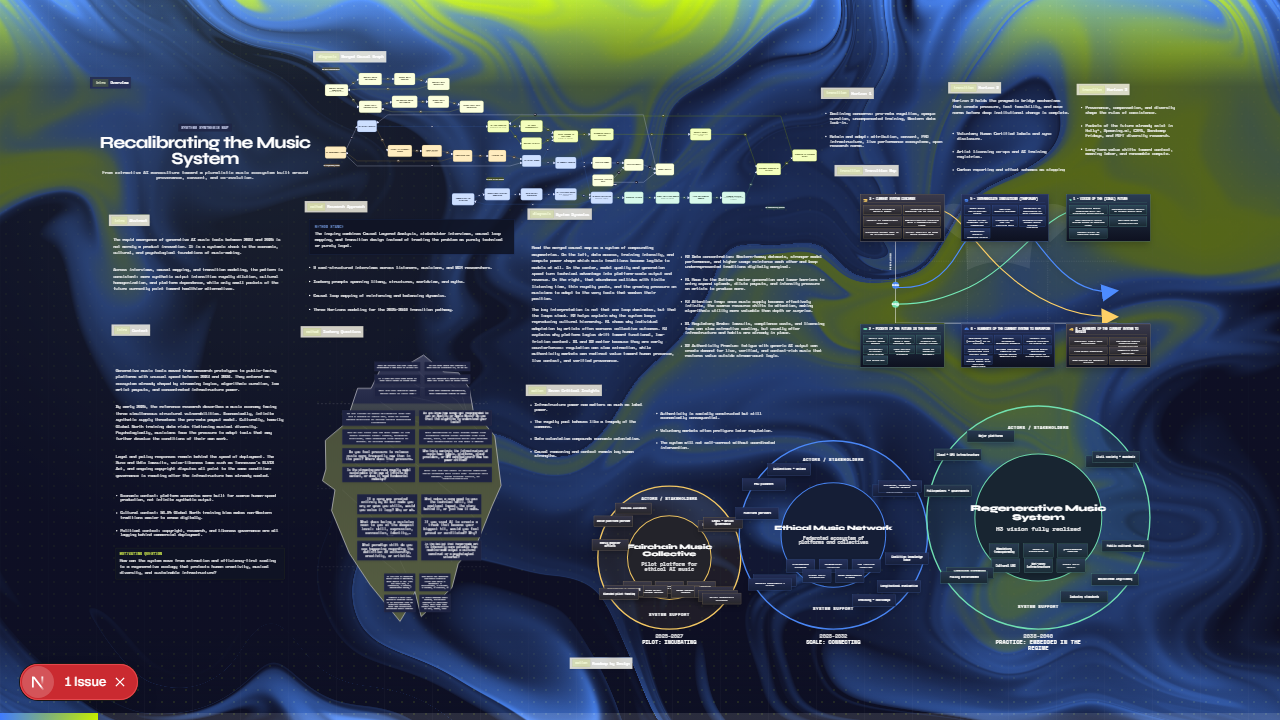
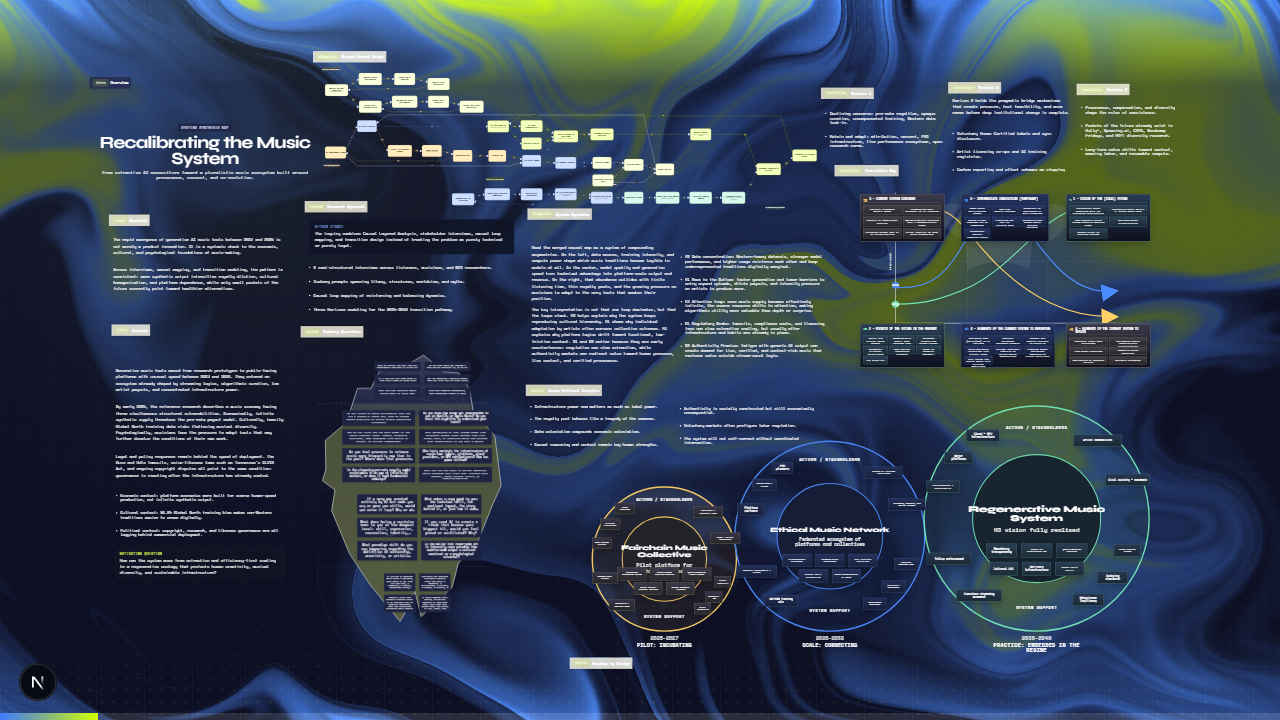
Implement angular gap management for roadmap rings layout and enhance presentation dimensions
- Added radiansToDegrees function for angle conversions.
- Introduced chipHalfAngleDegFromWidth and totalChipFootprintDeg functions to manage chip layout with equal angular gaps.
- Refactored layoutArcRowEven to utilize calculated chip centers and widths for improved spacing.
- Updated presentation YAML to adjust frame dimensions for better visual alignment.
- Enhanced unit tests to validate distinct angle placements and edge gaps for arc chips.

Changed region(s): [[0.4062, 0.55, 0.9062, 0.9167], [0.0, 0.9167, 0.125, 0.9778]]

diff --git a/components/roadmap-rings/index.tsx b/components/roadmap-rings/index.tsx
@@ -239,6 +239,10 @@ function degreesToRadians(value: number) {
   return (value * Math.PI) / 180;
 }
 
+function radiansToDegrees(value: number) {
+  return (value * 180) / Math.PI;
+}
+
 function polarPoint(centerX: number, centerY: number, radius: number, angle: number) {
   const radians = degreesToRadians(angle);
   return {
@@ -590,18 +594,6 @@ function computeVerticalBounds(
   return normalizeVerticalBounds(minY, maxY);
 }
 
-function distributeAngles(start: number, end: number, count: number) {
-  if (count <= 0) {
-    return [];
-  }
-
-  if (count === 1) {
-    return [(start + end) / 2];
-  }
-
-  return Array.from({ length: count }, (_, index) => start + ((end - start) * index) / (count - 1));
-}
-
 function splitIntoRows<T>(items: T[], rowCount: number) {
   if (rowCount <= 1 || items.length <= 1) {
     return [items];
@@ -937,7 +929,20 @@ function stripArcBounds(item: ItemLayout): ItemLayout {
   return rest;
 }
 
-/** Even angular spacing on one circle across the full usable arc (per disjoint range). */
+/** Central angle (half-width, degrees) subtended by a chip of axis-aligned width `w` on a circle of radius `r`. */
+function chipHalfAngleDegFromWidth(width: number, r: number): number {
+  const ratio = clamp(width / (2 * r), -1, 1);
+  return radiansToDegrees(Math.asin(ratio));
+}
+
+function totalChipFootprintDeg(widths: number[], r: number): number {
+  return widths.reduce((sum, w) => sum + 2 * chipHalfAngleDegFromWidth(w, r), 0);
+}
+
+/**
+ * Places chips on one radius with **equal angular gaps** between successive chip edges and at the arc ends.
+ * Widths come from each label (fitted font + text estimate), then scale down if the arc is too tight — not fixed (n−1) slots.
+ */
 function layoutArcRowEven(
   rowItems: NormalizedItem[],
   range: AngleRange,
@@ -951,21 +956,53 @@ function layoutArcRowEven(
     return [];
   }
 
-  const totalSpan = range.end - range.start;
-  const angles = distributeAngles(range.start, range.end, rowItems.length);
-  const step = rowItems.length <= 1 ? totalSpan : (range.end - range.start) / Math.max(rowItems.length - 1, 1);
-  /** Half-angle between neighbor centers; caps width so axis-aligned chip boxes can separate on the circle. */
-  const neighborHalfDeg = rowItems.length <= 1 ? totalSpan / 2 : step / 2;
-  const chordCap = 2 * rowRadius * Math.sin(degreesToRadians(neighborHalfDeg * 0.92));
+  const θ0 = range.start;
+  const θ1 = range.end;
+  const arcSpanDeg = θ1 - θ0;
+  const maxChip = geometry.outerRadius >= 300 ? 136 : geometry.outerRadius <= 210 ? 112 : 124;
+  const height = geometry.metrics.bandChipHeight + 4;
+  const padX = 18;
+  const n = rowItems.length;
+  /** Minimum angular margin between chip edges and at arc ends (degrees). */
+  const minGapDeg = Math.max(0.35, minDegreesPerItem * 0.06);
+
+  const minChord = 2 * rowRadius * Math.sin(degreesToRadians((arcSpanDeg / Math.max(n + 1, 2)) * 0.25));
+
+  let widths = rowItems.map((item) => {
+    const provisional = clamp(Math.max(minChord, maxChip * 0.55), 52, maxChip);
+    const fontSize = fitChipFontSize(item.label, provisional - padX, height - 8, 2, 11.25, 7.5);
+    const textW = estimateTextWidth(item.label, fontSize) + padX;
+    return clamp(textW, 48, maxChip);
+  });
+
+  let footprint = totalChipFootprintDeg(widths, rowRadius);
+  let gap = (arcSpanDeg - footprint) / (n + 1);
+
+  for (let shrink = 0; shrink < 28 && gap < minGapDeg; shrink += 1) {
+    const targetFootprint = arcSpanDeg - (n + 1) * minGapDeg;
+    const scale = clamp(targetFootprint / Math.max(footprint, 1e-6), 0.25, 0.995);
+    widths = widths.map((w) => Math.max(44, w * scale));
+    footprint = totalChipFootprintDeg(widths, rowRadius);
+    gap = (arcSpanDeg - footprint) / (n + 1);
+    if (scale >= 0.99) {
+      break;
+    }
+  }
+
+  let left = θ0 + gap;
+  const centers: number[] = [];
+  for (let i = 0; i < n; i += 1) {
+    const beta = chipHalfAngleDegFromWidth(widths[i]!, rowRadius);
+    const center = left + beta;
+    centers.push(center);
+    left = center + beta + gap;
+  }
 
   return rowItems.map((item, itemIndex) => {
-    const angle = angles[itemIndex];
+    const angle = centers[itemIndex]!;
+    const width = widths[itemIndex]!;
     const point = polarPoint(geometry.centerX, geometry.centerY, rowRadius, angle);
-    const arcWidth = rowRadius * degreesToRadians(Math.max(step * 0.82, minDegreesPerItem - 1));
-    const maxChip = geometry.outerRadius >= 300 ? 136 : geometry.outerRadius <= 210 ? 112 : 124;
-    const width = clamp(Math.min(arcWidth, chordCap), 56, maxChip);
-    const height = geometry.metrics.bandChipHeight + 4;
-    const fontSize = fitChipFontSize(item.label, width - 18, height - 8, 2, 11.25, 7.5);
+    const fontSize = fitChipFontSize(item.label, width - padX, height - 8, 2, 11.25, 7.5);
 
     return {
       key: item.key,

diff --git a/tests/unit/roadmap-rings-layout.test.ts b/tests/unit/roadmap-rings-layout.test.ts
@@ -114,12 +114,67 @@ describe('roadmap-rings layout', () => {
     const all = [...strategyLayouts, ...actorLayouts, ...supportLayouts];
     for (let i = 0; i < all.length; i += 1) {
       for (let j = i + 1; j < all.length; j += 1) {
-        if (aabbOverlap(all[i]!, all[j]!)) {
-          // eslint-disable-next-line no-console -- debug overlap pairs
-          console.log('overlap', i, j, all[i], all[j]);
-        }
         expect(aabbOverlap(all[i]!, all[j]!)).toBe(false);
       }
     }
   });
+
+  it('places arc chips at distinct angles with approximately equal edge gaps within each arc (width-aware margins)', () => {
+    const phases = [
+      mkPhase('sm', { strategy: 0, actors: 6, support: 0 }),
+      mkPhase('md', { strategy: 0, actors: 0, support: 0 }),
+      mkPhase('lg', { strategy: 0, actors: 0, support: 0 })
+    ] as unknown[];
+    const geoms = computePhaseGeometry(phases as Parameters<typeof computePhaseGeometry>[0]);
+    const g = geoms[0];
+    const p = phases[0] as NormalizedPhaseLike;
+    const layouts = layoutArcChips('actors', p.actors.items, g, 0, []);
+
+    const cx = g.centerX;
+    const cy = g.centerY;
+    const angles = layouts.map((l) => (Math.atan2(l.y - cy, l.x - cx) * 180) / Math.PI);
+    const uniq = new Set(angles.map((a) => a.toFixed(4)));
+    expect(uniq.size).toBe(angles.length);
+
+    const rMean = layouts.reduce((s, l) => s + Math.hypot(l.x - cx, l.y - cy), 0) / layouts.length;
+    const withEdge = layouts
+      .map((l) => {
+        const c = (Math.atan2(l.y - cy, l.x - cx) * 180) / Math.PI;
+        const half = chipHalfAngleFromLayout(l, rMean);
+        return { left: c - half, right: c + half };
+      })
+      .sort((a, b) => a.left - b.left);
+
+    const runs: typeof withEdge[] = [];
+    let run: typeof withEdge = [withEdge[0]!];
+    for (let i = 1; i < withEdge.length; i += 1) {
+      const prev = withEdge[i - 1]!;
+      const gapBetweenArcs = withEdge[i]!.left - prev.right;
+      if (gapBetweenArcs > 40) {
+        runs.push(run);
+        run = [];
+      }
+      run.push(withEdge[i]!);
+    }
+    runs.push(run);
+
+    for (const seg of runs) {
+      if (seg.length < 2) {
+        continue;
+      }
+      const gaps: number[] = [];
+      for (let i = 0; i < seg.length - 1; i += 1) {
+        gaps.push(seg[i + 1]!.left - seg[i]!.right);
+      }
+      const mean = gaps.reduce((s, x) => s + x, 0) / gaps.length;
+      for (const x of gaps) {
+        expect(Math.abs(x - mean)).toBeLessThan(mean * 0.4 + 0.35);
+      }
+    }
+  });
 });
+
+function chipHalfAngleFromLayout(l: { width: number }, r: number): number {
+  const ratio = Math.min(1, Math.max(-1, l.width / (2 * r)));
+  return (Math.asin(ratio) * 180) / Math.PI;
+}
